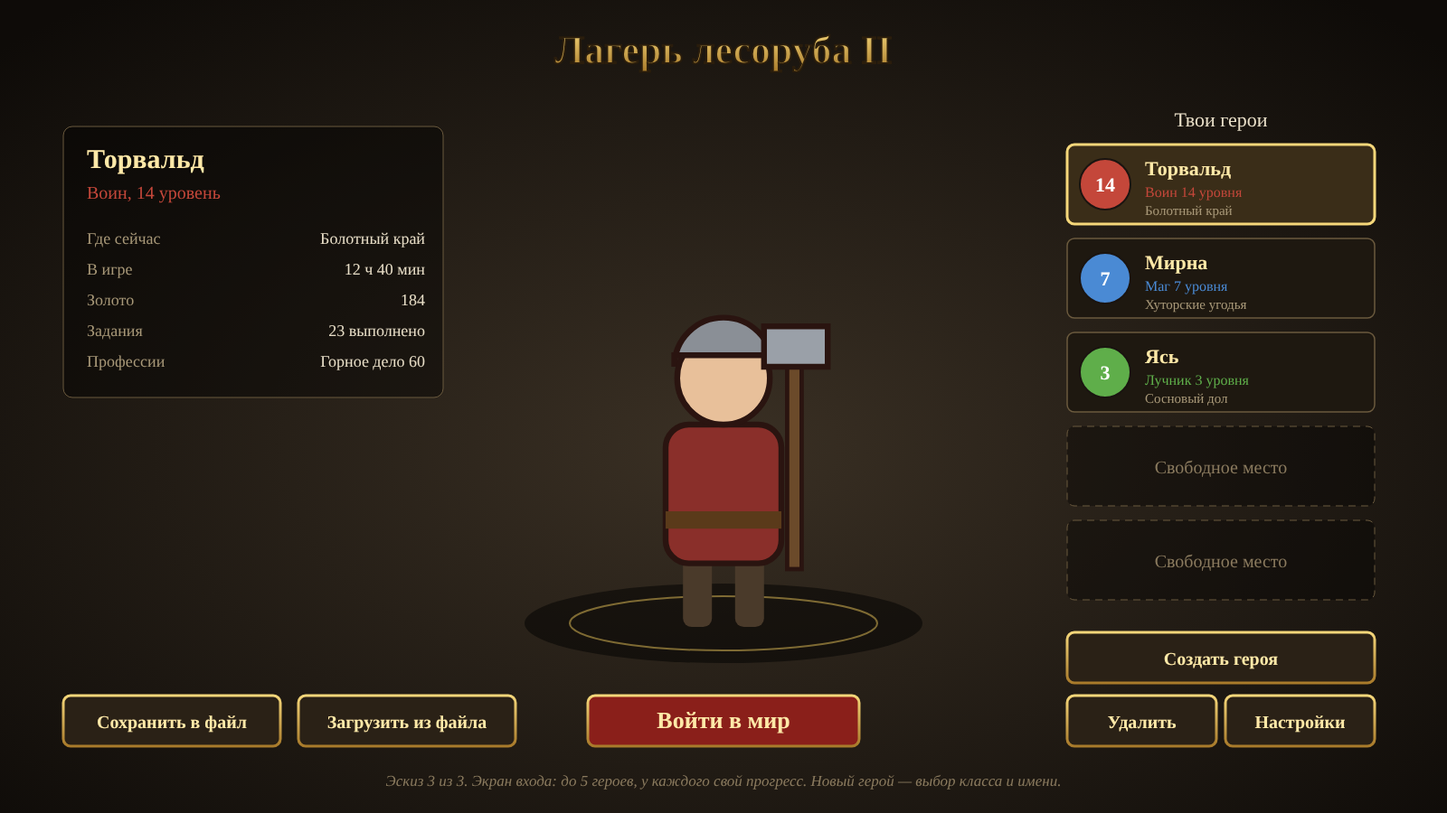
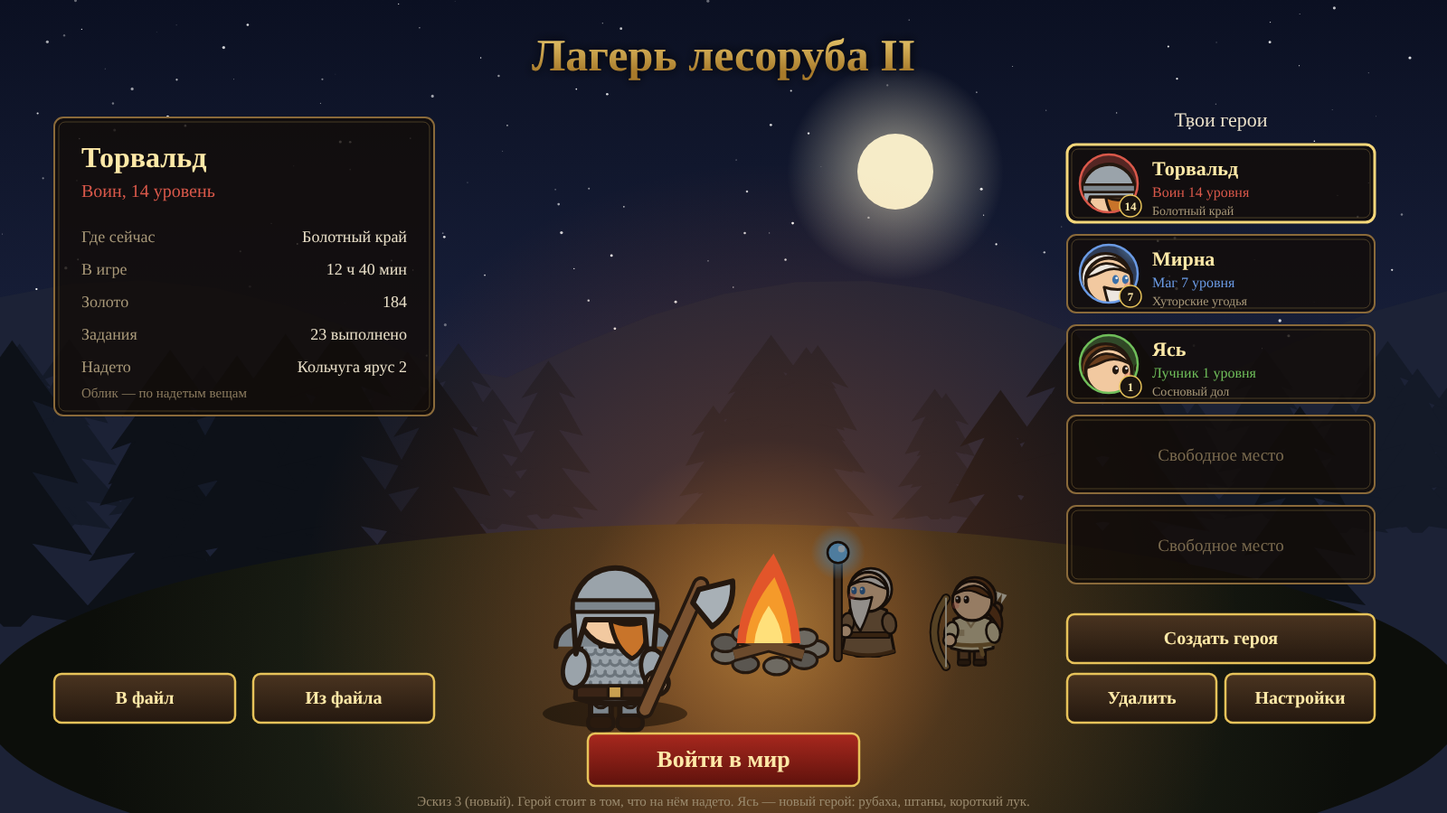
Концепция: травничество и алхимия, скрытые жилы, облик по вещам; эскизы экрана героев
Claude-Session: https://claude.ai/code/session_018u2gDytkQHQDk7Sw3j2mL6

diff --git a/tools/proto/v53/hero.html b/tools/proto/v53/hero.html
@@ -1,0 +1,212 @@
+<!doctype html><html><head><meta charset="utf-8"><title>Облик героя v53</title>
+<style>body{margin:0;background:#111;font-family:Georgia,'Times New Roman',serif}canvas{display:block;margin-bottom:20px}</style></head><body>
+<canvas id="sel" width="1600" height="900"></canvas>
+<canvas id="tiers" width="1600" height="980"></canvas>
+<script>
+// ===== Облик героя по слотам и ярусам (вариант Б). Будет src/art/hero.js =====
+const HO='#24180f',SKIN='#f2c9a0';
+const RAR={common:null,good:'#5fd35f',rare:'#4a9eff',epic:'#b46aff'};
+// линейки брони по классу: 0 простая одежда, 1..4 растущие ярусы
+const LINE={
+ warrior:{name:['Рубаха','Кожа','Кольчуга','Латы','Латы Стража'],
+   chest:['#d8c8a4','#8a5a32','#9aa3aa','#c4ccd2','#4a4f6e'],legs:['#6b4a2c','#5a3a1c','#7c858c','#b8c0c6','#3e4260']},
+ archer:{name:['Рубаха','Кожа','Шкуры','Чешуя','Доспех Следопыта'],
+   chest:['#d8c8a4','#8a5a32','#6a4a2a','#3e7a4a','#1f5a4a'],legs:['#6b4a2c','#5a3a1c','#4a3420','#2f5a36','#1e403a']},
+ mage:{name:['Рубаха','Роба','Расшитая роба','Звёздная мантия','Мантия Архимага'],
+   chest:['#d8c8a4','#8a6a4a','#3a5a9a','#4a2f78','#241a50'],legs:['#6b4a2c','#7a5a3a','#2e4a80','#3a2466','#1a1240']},
+};
+const WNAME={warrior:['Топорик','Боевой топор','Секира','Рунная секира'],mage:['Палка','Посох с кристаллом','Посох ученика','Посох бури'],archer:['Короткий лук','Охотничий лук','Длинный лук','Лук ветра']};
+function doll(c,x,y,s,dir,L,t=0){
+  const cl=L.cls,ln=LINE[cl],tc=L.chest|0,tl=L.legs|0,th=L.head|0,rc=RAR[L.rar||'common'];
+  const hp=(fn,fill,lw=1.1)=>{c.beginPath();fn();c.fillStyle=fill;c.fill();c.strokeStyle=HO;c.lineWidth=lw;c.stroke()};
+  c.save();c.translate(x,y);c.scale(s*dir,s);c.lineJoin='round';c.lineCap='round';
+  // сияние редкой вещи под ногами
+  if(rc&&(tc>=4||L.glow)){const g=c.createRadialGradient(0,9,1,0,9,20);g.addColorStop(0,rc+'99');g.addColorStop(1,rc+'00');c.fillStyle=g;c.beginPath();c.ellipse(0,9,20,8,0,0,7);c.fill();
+    for(let i=0;i<5;i++){const q=((t*0.6+i/5)%1);c.fillStyle=rc;c.globalAlpha=1-q;c.beginPath();c.arc(-10+i*5,10-q*26,0.9,0,7);c.fill()}c.globalAlpha=1}
+  // плащ сзади (ярус 3+)
+  if(tc>=3){const cap=cl==='warrior'?(tc>=4?'#3a2a6a':'#8a2a1a'):cl==='archer'?(tc>=4?'#173f36':'#2f6a3a'):(tc>=4?'#140e36':'#2a1a58');
+    hp(()=>{c.moveTo(-7,-6);c.lineTo(6,-6);c.lineTo(5,12);c.quadraticCurveTo(-5,14.5,-13,11.5);c.closePath()},cap);
+    if(rc){c.strokeStyle=rc;c.lineWidth=0.9;c.beginPath();c.moveTo(5,11.5);c.quadraticCurveTo(-5,14,-12.5,11);c.stroke()}}
+  // колчан у лучника
+  if(cl==='archer'){c.save();c.translate(-6,-3);c.rotate(-0.35);hp(()=>c.roundRect(-3,-9,6,15,2),tc>=3?'#3a2a14':'#6b4a2c');c.fillStyle='#e8e0cc';for(let i=0;i<3;i++){c.beginPath();c.moveTo(-2+i*2,-9);c.lineTo(-3+i*2,-13);c.lineTo(-1+i*2,-13);c.fill()}c.restore()}
+  // оружие за спиной не носим — оно в руке (рисуется в конце)
+  // ноги
+  const robe=cl==='mage'&&tc>=1;
+  const lc=ln.legs[tl],boot=tl===0?'#3a2616':tl>=3&&cl==='warrior'?'#9aa3aa':'#2a1a0e';
+  for(const lx of [-5,1]){hp(()=>c.roundRect(lx,3.5,4.2,9,1.6),lc);
+    if(tl>=1)hp(()=>c.roundRect(lx-0.5,9.6,5.2,3,1.2),boot,0.8);else hp(()=>c.roundRect(lx-0.3,10.4,4.8,2.2,1),boot,0.7);
+    if(cl==='warrior'&&tl>=2)hp(()=>c.arc(lx+2.1,6.5,1.6,0,7),tl>=3?'#f4c766':'#5a5f66',0.6);
+    if(tl>=4&&rc){c.fillStyle=rc;c.fillRect(lx+0.6,4.6,3,1)}}
+  // тело
+  const tor=()=>{c.moveTo(-7,-5);c.quadraticCurveTo(0,-8,7,-5);c.lineTo(8,6);c.quadraticCurveTo(0,8.5,-8,6);c.closePath()};
+  const robeP=()=>{c.moveTo(-7,-5);c.quadraticCurveTo(0,-8,7,-5);c.lineTo(10,11);c.quadraticCurveTo(0,14,-10,11);c.closePath()};
+  const cc=ln.chest[tc];
+  if(tc===0){ // простая рубаха и верёвочный пояс
+    hp(tor,cc);c.strokeStyle='#a8916a';c.lineWidth=0.8;c.beginPath();c.moveTo(-2.5,-6.4);c.lineTo(0.5,-2);c.lineTo(3.5,-6.4);c.stroke();
+    c.strokeStyle='#8a6a3a';c.lineWidth=1.6;c.beginPath();c.moveTo(-8,4.4);c.quadraticCurveTo(0,5.6,8,4.4);c.stroke();c.beginPath();c.moveTo(-3,5);c.lineTo(-4,8.5);c.stroke();
+    c.fillStyle='rgba(120,90,50,.35)';c.fillRect(3,-1,2.4,2.4); // заплатка
+  }else if(robe){
+    hp(robeP,cc);
+    c.save();c.beginPath();robeP();c.clip();
+    if(tc>=2){c.fillStyle=tc>=3?'#2a1a50':'#24406e';c.fillRect(-2.5,-8,6,22);}
+    if(tc>=3){c.fillStyle='#cfd8e6';for(const [sx,sy,r] of [[-6,0,1.3],[6,3,1.1],[-5,7,1],[5,-2,0.9],[-1,10,1]]){c.beginPath();for(let i=0;i<8;i++){const rr=i%2?r*0.4:r,a=i*Math.PI/4;c.lineTo(sx+Math.cos(a)*rr,sy+Math.sin(a)*rr)}c.fill()}}
+    c.restore();
+    const trim=tc>=4&&rc?rc:tc>=2?'#f4c766':'#5a3a1c';c.strokeStyle=trim;c.lineWidth=1.2;c.beginPath();c.moveTo(-9.6,10.6);c.quadraticCurveTo(0,13.6,9.6,10.6);c.stroke();
+    hp(()=>c.rect(-8,3.4,16,2.2),tc>=2?'#f4c766':'#5a3a1c',.6);
+    if(tc>=4){for(let i=0;i<4;i++){const gx=-6+i*4,g=c.createRadialGradient(gx,9.4,0.2,gx,9.4,2.6);g.addColorStop(0,'rgba(200,170,255,.95)');g.addColorStop(1,'rgba(200,170,255,0)');c.fillStyle=g;c.beginPath();c.arc(gx,9.4,2.6,0,7);c.fill()}}
+  }else if(tc===1){ // кожа
+    hp(tor,cc);c.strokeStyle='#5a3418';c.lineWidth=0.7;c.setLineDash([1.2,1.2]);c.beginPath();c.moveTo(-5,-5);c.lineTo(-5.5,5);c.moveTo(5,-5);c.lineTo(5.5,5);c.stroke();c.setLineDash([]);
+    hp(()=>c.rect(-8,3.6,16,2.6),'#3a2416',.8);hp(()=>c.rect(-1.4,3.6,2.8,2.6),'#c9a050',.6);
+  }else if(cl==='warrior'&&tc===2||cl==='archer'&&tc===2){ // кольчуга / шкуры
+    hp(tor,cc,1.2);c.save();c.beginPath();tor();c.clip();
+    if(cl==='warrior'){c.strokeStyle='#6c757c';c.lineWidth=0.6;for(let r=0;r<6;r++)for(let k=0;k<9;k++){c.beginPath();c.arc(-8+k*2+(r%2),-6+r*2.2,1,0,Math.PI);c.stroke()}}
+    else{c.fillStyle='#4a3218';for(let k=0;k<12;k++){c.beginPath();c.arc(-7+(k*5)%15,-4+(k*3)%10,1.2,0,7);c.fill()}}
+    c.restore();hp(()=>{c.moveTo(-7.5,-6);c.quadraticCurveTo(0,-9.5,7.5,-6);c.quadraticCurveTo(0,-3.5,-7.5,-6)},cl==='archer'?'#e8dcc0':'#5a3a1c',0.8);
+    hp(()=>c.rect(-8,3.6,16,2.6),'#3a2416',.8);hp(()=>c.rect(-1.4,3.6,2.8,2.6),'#c9a050',.6);
+  }else{ // латы / чешуя, ярус 3–4
+    hp(tor,cc,1.2);
+    if(cl==='archer'){c.save();c.beginPath();tor();c.clip();for(let r=0;r<4;r++)for(let k=0;k<5;k++){const lx=-8+k*4+(r%2)*2,ly=-5+r*3.4;hp(()=>{c.moveTo(lx,ly);c.quadraticCurveTo(lx+2,ly+3,lx+4,ly);c.quadraticCurveTo(lx+2,ly+1.4,lx,ly)},tc>=4?(r%2?'#2a8a72':'#3aa88a'):(r%2?'#5fc98a':'#4aa870'),0.5)}c.restore();
+      c.strokeStyle='#3a2416';c.lineWidth=1.7;c.beginPath();c.moveTo(-6,-5);c.lineTo(7,4);c.stroke()}
+    else{c.fillStyle='rgba(255,255,255,.3)';c.fillRect(-5.5,-4,1.6,8);hp(()=>c.arc(0.5,-1,2.4,0,7),tc>=4&&rc?rc:'#f4c766',0.7);
+      c.strokeStyle=tc>=4&&rc?rc:'#f4c766';c.lineWidth=0.9;c.beginPath();c.moveTo(-7,-5);c.quadraticCurveTo(0,-8,7,-5);c.stroke()}
+    hp(()=>c.rect(-8,3.6,16,2.6),'#3a2416',.8);hp(()=>c.rect(-1.4,3.6,2.8,2.6),tc>=4&&rc?rc:'#f4c766',.6);
+  }
+  // руки и плечи
+  const sl=tc===0?'#d8c8a4':cc;
+  hp(()=>c.ellipse(-8,0,2.6,4,0.2,0,7),sl,.9);
+  if(cl==='warrior'&&tc>=2){const pc=tc>=3?cc:'#7c858c';for(const sx of [-7.5,7.5]){hp(()=>c.arc(sx,-4.5,4.6,Math.PI,0),pc,1);if(tc>=3){c.strokeStyle=tc>=4&&rc?rc:'#f4c766';c.lineWidth=0.8;c.beginPath();c.arc(sx,-4.5,4.6,Math.PI,0);c.stroke()}
+    if(tc>=4)for(const d of [-2,2])hp(()=>{c.moveTo(sx+d-1.2,-8.4);c.lineTo(sx+d*1.4,-13);c.lineTo(sx+d+1.2,-8.4);c.closePath()},'#cfd8de',0.6)}}
+  if(cl==='mage'&&tc>=3)for(const sx of [-7,7])hp(()=>{c.arc(sx,-4.5,3.4,Math.PI,0);c.closePath()},'#cfd8e6',0.8);
+  if(cl==='archer'&&tc>=3)hp(()=>{c.moveTo(4,-6);c.quadraticCurveTo(9,-9,12,-4);c.quadraticCurveTo(8,-4,4,-2);c.closePath()},tc>=4?'#3aa88a':'#5fc98a',0.8);
+  hp(()=>c.ellipse(8,0,2.6,4,-0.2,0,7),sl,.9);
+  // голова
+  const hood=(cl==='archer'&&th>=1)||(cl==='mage'&&th===1);
+  const hoodC=cl==='archer'?['','#6b4a2c','#2f4f2a','#2f6a3a','#1f5a4a'][th]:'#7a5a3a';
+  if(hood){hp(()=>c.arc(0,-12,8.6,0,7),hoodC);hp(()=>{c.moveTo(-5,-19);c.quadraticCurveTo(-9,-24,-12,-23);c.quadraticCurveTo(-9,-18,-8,-13);c.closePath()},hoodC)}
+  // волосы сзади
+  if(!hood&&th===0){const hc=cl==='warrior'?'#c8742a':cl==='mage'?'#ece6df':'#6a3e1e';hp(()=>c.arc(-1,-13,8,0,7),hc,1);if(cl==='archer')hp(()=>{c.moveTo(-6,-12);c.quadraticCurveTo(-13,-8,-11,0);c.quadraticCurveTo(-8,-6,-4,-9);c.closePath()},hc,0.9)}
+  hp(()=>hood?c.ellipse(2,-11,5.3,5.6,0,0,7):c.arc(0,-12,7.5,0,7),SKIN);
+  if(hood){c.fillStyle='rgba(0,0,0,.28)';c.beginPath();c.ellipse(2,-15,5.3,2.2,0,0,7);c.fill()}
+  // чёлка
+  if(!hood&&th===0){const hc=cl==='warrior'?'#c8742a':cl==='mage'?'#ece6df':'#6a3e1e';hp(()=>{c.moveTo(-7.5,-13);c.quadraticCurveTo(-2,-22,7.5,-14);c.quadraticCurveTo(3,-17,-1,-15.5);c.quadraticCurveTo(-4,-14,-7.5,-13)},hc,0.8)}
+  if(cl==='warrior')hp(()=>{c.moveTo(-1,-10);c.quadraticCurveTo(3,-8,7,-10);c.quadraticCurveTo(7,-4,3.5,-2);c.quadraticCurveTo(0,-4,-1,-10)},'#c8742a',.9);
+  if(cl==='mage')hp(()=>{c.moveTo(-1.5,-10);c.quadraticCurveTo(3,-8.5,7.2,-10);c.quadraticCurveTo(7,-2,3,3);c.quadraticCurveTo(0,-3,-1.5,-10)},'#ece6df',.9);
+  const eyeC=cl==='mage'?'#3a6fa8':HO;for(const ex of [2.2,5.4]){c.fillStyle=eyeC;c.beginPath();c.ellipse(ex,-12.5,1.05,1.5,0,0,7);c.fill();c.fillStyle='#fff';c.beginPath();c.arc(ex+.35,-13,.4,0,7);c.fill()}
+  if(!hood){c.fillStyle='rgba(230,110,90,.35)';c.beginPath();c.arc(6.3,-10.3,1.3,0,7);c.fill()}
+  // головные уборы
+  if(cl==='warrior'&&th>=1){
+    if(th===1){hp(()=>{c.arc(0,-13,8,Math.PI,0);c.lineTo(8,-12);c.lineTo(-8,-12);c.closePath()},'#8a5a32');c.strokeStyle='#5a3418';c.lineWidth=0.6;c.beginPath();c.moveTo(0,-21);c.lineTo(0,-13);c.stroke()}
+    else if(th===2){hp(()=>{c.arc(0,-12,8.6,Math.PI*0.95,Math.PI*2.05);c.lineTo(8,-4);c.lineTo(6.5,-4);c.lineTo(6,-10);c.lineTo(-6,-10);c.lineTo(-8,-3);c.closePath()},'#9aa3aa');hp(()=>c.rect(-8.6,-14,17.2,2.4),'#7c858c',.8)}
+    else{const hc=th>=4?'#4a4f6e':'#c4ccd2',tr=th>=4&&rc?rc:'#f4c766';
+      for(const sx of [-1,1]){hp(()=>{c.moveTo(sx*6,-15);c.quadraticCurveTo(sx*15,-15,sx*15,-28);c.quadraticCurveTo(sx*11,-21,sx*4,-19);c.closePath()},'#ece2c8',1)}
+      hp(()=>{c.arc(0,-13,8.4,Math.PI,0);c.lineTo(8.4,-9);c.lineTo(6,-9);c.lineTo(6,-12);c.lineTo(-8.4,-12);c.closePath()},hc,1.1);hp(()=>c.rect(-8.8,-14.8,17.6,3),tr,.8);hp(()=>c.rect(3,-14.5,2.2,6.5),tr,.7);
+      c.fillStyle='rgba(255,255,255,.35)';c.beginPath();c.arc(-3,-18,2,0,7);c.fill()}}
+  if(cl==='mage'&&th>=2){const hc=['','','#3a5a9a','#4a2f78','#241a50'][th];hp(()=>c.ellipse(0,-16.5,11,2.8,0,0,7),'#1e1438');hp(()=>{c.moveTo(-6.5,-17);c.quadraticCurveTo(-4,-26,-3,-30);c.quadraticCurveTo(-6,-33,-10,-31);c.quadraticCurveTo(-4,-35,0,-31);c.quadraticCurveTo(3,-24,6.5,-17);c.closePath()},hc);hp(()=>c.rect(-6.3,-19.3,12.6,2.4),th>=4&&rc?rc:'#f4c766',.8);
+    if(th>=3){c.fillStyle='#f4c766';c.beginPath();c.arc(-1,-25,1.2,0,7);c.fill()}
+    if(th>=4){const fy=-38+Math.sin(t*2)*1.5,g=c.createRadialGradient(0,fy,0.5,0,fy,7);g.addColorStop(0,'rgba(190,150,255,.9)');g.addColorStop(1,'rgba(150,110,255,0)');c.fillStyle=g;c.beginPath();c.arc(0,fy,7,0,7);c.fill();hp(()=>{c.moveTo(0,fy-4.5);c.lineTo(2.6,fy);c.lineTo(0,fy+4.5);c.lineTo(-2.6,fy);c.closePath()},'#b48aff',0.8)}}
+  if(cl==='archer'&&th>=3){hp(()=>{c.moveTo(-6,-19);c.quadraticCurveTo(-12,-28,-9,-33);c.quadraticCurveTo(-8,-26,-4,-20);c.closePath()},th>=4&&rc?rc:'#d8c050',0.7)}
+  // кисть
+  hp(()=>c.arc(8.6,3,2.4,0,7),SKIN,.9);
+  // оружие в руке
+  const wt=L.wt|0;
+  if(cl==='warrior'){c.save();c.translate(8.6,3);c.rotate(0.42);
+    c.strokeStyle=HO;c.lineWidth=3.6;c.beginPath();c.moveTo(0,6);c.lineTo(0,-20-wt*2);c.stroke();c.strokeStyle=wt>=3?'#3a2416':'#7a5230';c.lineWidth=2.2;c.beginPath();c.moveTo(0,6);c.lineTo(0,-20-wt*2);c.stroke();
+    const top=-20-wt*2,bc=wt>=3?'#7ec8ff':wt>=2?'#d8dde2':'#a8b0b6',w=4+wt*1.6,hh=5+wt*1.8;
+    hp(()=>{c.moveTo(0,top+1);c.lineTo(w,top-hh/2);c.quadraticCurveTo(w+3,top+2,w,top+hh);c.lineTo(0,top+4);c.closePath()},bc);
+    if(wt>=2)hp(()=>{c.moveTo(0,top+1);c.lineTo(-w*0.8,top-hh/2.5);c.quadraticCurveTo(-w-2,top+2,-w*0.8,top+hh*0.8);c.lineTo(0,top+4);c.closePath()},bc);
+    if(wt>=3){c.strokeStyle='#ffffff';c.lineWidth=0.8;c.beginPath();c.moveTo(w-1,top-2);c.lineTo(w-3,top+2);c.lineTo(w-1,top+5);c.stroke()}
+    c.restore()}
+  if(cl==='mage'){const sx=11.5;c.strokeStyle=HO;c.lineWidth=3.6;c.beginPath();c.moveTo(sx,13);c.quadraticCurveTo(sx+(wt?0:1.5),-6,sx,-24);c.stroke();c.strokeStyle=wt===0?'#8a6a3a':wt>=3?'#3a2a5a':'#6b4a2c';c.lineWidth=2.2;c.beginPath();c.moveTo(sx,13);c.quadraticCurveTo(sx+(wt?0:1.5),-6,sx,-24);c.stroke();
+    if(wt===0){hp(()=>c.ellipse(sx-1,-24,2.2,1.6,0.4,0,7),'#7a5a32',0.8);hp(()=>c.ellipse(sx+2.5,-19,2,1,0.8,0,7),'#5a8a3a',0.6)}
+    else{const oc=['','#7ec8ff','#9affc8','#c8a0ff'][wt],R=3+wt;const g=c.createRadialGradient(sx,-27,1,sx,-27,R*2.6);g.addColorStop(0,oc+'cc');g.addColorStop(1,oc+'00');c.fillStyle=g;c.beginPath();c.arc(sx,-27,R*2.6,0,7);c.fill();
+      if(wt>=2){c.strokeStyle='#cfd8de';c.lineWidth=1.2;c.beginPath();c.arc(sx,-27,R+2,0,7);c.stroke()}
+      hp(()=>c.arc(sx,-27,R,0,7),oc,0.9);c.fillStyle='rgba(255,255,255,.75)';c.beginPath();c.arc(sx-1.3,-28.4,1.3,0,7);c.fill()}}
+  if(cl==='archer'){const bx=12,bh=13+wt*2.5,bc=['#8a6a3a','#6b4a2c','#4a3420','#d8c050'][wt];
+    c.strokeStyle=HO;c.lineWidth=3.6;c.beginPath();c.moveTo(bx-2,-bh);c.quadraticCurveTo(bx+7,0,bx-2,bh);c.stroke();c.strokeStyle=bc;c.lineWidth=2.2;c.beginPath();c.moveTo(bx-2,-bh);c.quadraticCurveTo(bx+7,0,bx-2,bh);c.stroke();
+    c.strokeStyle='#e8e0cc';c.lineWidth=0.6;c.beginPath();c.moveTo(bx-2,-bh);c.lineTo(bx-2,bh);c.stroke();
+    if(wt>=3){c.strokeStyle='#9affc8';c.lineWidth=0.8;for(let i=0;i<3;i++){c.beginPath();c.arc(bx+3,-6+i*6,2,0,3);c.stroke()}}}
+  c.restore()}
+
+// ===== ЭКРАН ВЫБОРА ГЕРОЯ =====
+const cv=document.getElementById('sel'),c=cv.getContext('2d');
+function rnd(seed){let s=seed;return()=>((s=(s*16807)%2147483647)/2147483647)}
+function scene(){
+  // небо
+  const sky=c.createLinearGradient(0,0,0,900);sky.addColorStop(0,'#0b1022');sky.addColorStop(.55,'#1b2340');sky.addColorStop(1,'#120d0a');c.fillStyle=sky;c.fillRect(0,0,1600,900);
+  const r=rnd(7);c.fillStyle='#fff';for(let i=0;i<160;i++){c.globalAlpha=.3+r()*.7;c.beginPath();c.arc(r()*1600,r()*420,r()*1.4+.3,0,7);c.fill()}c.globalAlpha=1;
+  // луна
+  const mg=c.createRadialGradient(990,190,10,990,190,120);mg.addColorStop(0,'rgba(255,245,210,.55)');mg.addColorStop(1,'rgba(255,245,210,0)');c.fillStyle=mg;c.beginPath();c.arc(990,190,120,0,7);c.fill();c.fillStyle='#f6ecc8';c.beginPath();c.arc(990,190,42,0,7);c.fill();
+  // дальние горы и лес
+  c.fillStyle='#1c2236';c.beginPath();c.moveTo(0,520);for(let x=0;x<=1600;x+=80)c.lineTo(x,430-Math.abs(Math.sin(x*0.004+1))*120);c.lineTo(1600,900);c.lineTo(0,900);c.fill();
+  const pine=(x,y,h,col)=>{c.fillStyle=col;c.beginPath();c.moveTo(x,y-h);for(let k=0;k<4;k++){const yy=y-h+h*(k+1)/4;c.lineTo(x+h*0.18+k*h*0.05,yy);c.lineTo(x+h*0.07,yy-h*0.04)}c.lineTo(x+h*0.03,y);c.lineTo(x-h*0.03,y);for(let k=3;k>=0;k--){const yy=y-h+h*(k+1)/4;c.lineTo(x-h*0.07,yy-h*0.04);c.lineTo(x-h*0.18-k*h*0.05,yy)}c.closePath();c.fill()};
+  const r2=rnd(11);for(let i=0;i<46;i++){const x=r2()*1600;pine(x,560+r2()*30,120+r2()*80,'#141a28')}
+  for(let i=0;i<22;i++){const x=r2()*1600;if(x>520&&x<1080)continue;pine(x,660+r2()*40,200+r2()*120,'#0d1118')}
+  // поляна
+  const gr=c.createRadialGradient(800,760,40,800,760,700);gr.addColorStop(0,'#3a3220');gr.addColorStop(.5,'#1e2216');gr.addColorStop(1,'#0c0e0a');c.fillStyle=gr;c.beginPath();c.ellipse(800,780,820,200,0,0,7);c.fill();
+  // свет костра
+  const fg=c.createRadialGradient(850,700,10,850,700,520);fg.addColorStop(0,'rgba(255,170,70,.55)');fg.addColorStop(.4,'rgba(255,120,40,.18)');fg.addColorStop(1,'rgba(255,100,30,0)');c.fillStyle=fg;c.beginPath();c.arc(850,700,520,0,7);c.fill();
+}
+function fire(x,y,s,t){c.save();c.translate(x,y);c.scale(s,s);
+  // камни
+  for(let i=0;i<9;i++){const a=i/9*Math.PI*2;c.fillStyle=i%2?'#5a5650':'#6e6a62';c.strokeStyle=HO;c.lineWidth=1;c.beginPath();c.ellipse(Math.cos(a)*16,Math.sin(a)*6+2,4.5,3,0,0,7);c.fill();c.stroke()}
+  // поленья
+  c.strokeStyle=HO;c.lineWidth=5;c.beginPath();c.moveTo(-12,4);c.lineTo(10,-2);c.moveTo(-10,-2);c.lineTo(12,4);c.stroke();c.strokeStyle='#6b4a2c';c.lineWidth=3.2;c.stroke();
+  // пламя
+  const fl=(w,h,col,o)=>{c.fillStyle=col;c.beginPath();c.moveTo(-w,0);c.quadraticCurveTo(-w*0.9,-h*0.5,o,-h);c.quadraticCurveTo(w*0.9,-h*0.5,w,0);c.closePath();c.fill()};
+  fl(11,28+Math.sin(t*3)*3,'#e2552a',Math.sin(t*2)*2);fl(8,21+Math.sin(t*4)*2,'#f59a2a',Math.sin(t*3)*2);fl(5,13,'#ffe07a',0);
+  c.restore()}
+function panel(x,y,w,h){c.fillStyle='rgba(18,12,8,.82)';c.strokeStyle='#8a6a3a';c.lineWidth=2;c.beginPath();c.roundRect(x,y,w,h,10);c.fill();c.stroke();c.strokeStyle='rgba(244,199,102,.25)';c.lineWidth=1;c.beginPath();c.roundRect(x+5,y+5,w-10,h-10,7);c.stroke()}
+function btn(x,y,w,h,txt,main){const g=c.createLinearGradient(0,y,0,y+h);g.addColorStop(0,main?'#a8281e':'#4a3420');g.addColorStop(1,main?'#5e120c':'#24180f');c.fillStyle=g;c.beginPath();c.roundRect(x,y,w,h,8);c.fill();c.strokeStyle='#e7c35a';c.lineWidth=2.5;c.stroke();
+  c.fillStyle='#ffe9a8';c.font=`bold ${main?26:20}px Georgia`;c.textAlign='center';c.textBaseline='middle';c.fillText(txt,x+w/2,y+h/2+1)}
+function text(t,x,y,size,col,align='left',bold){c.fillStyle=col;c.font=`${bold?'bold ':''}${size}px Georgia`;c.textAlign=align;c.textBaseline='alphabetic';c.fillText(t,x,y)}
+
+const HEROES=[
+ {name:'Торвальд',cls:'warrior',lvl:14,zone:'Болотный край',time:'12 ч 40 мин',gold:184,q:23,look:{cls:'warrior',chest:2,legs:2,head:2,wt:1,rar:'good'}},
+ {name:'Мирна',cls:'mage',lvl:7,zone:'Хуторские угодья',time:'3 ч 05 мин',gold:41,q:9,look:{cls:'mage',chest:1,legs:1,head:0,wt:1}},
+ {name:'Ясь',cls:'archer',lvl:1,zone:'Сосновый дол',time:'5 мин',gold:0,q:0,look:{cls:'archer',chest:0,legs:0,head:0,wt:0}},
+];
+const CC={warrior:'#d9584a',mage:'#6a9ae4',archer:'#6fbe5a'},CN={warrior:'Воин',mage:'Маг',archer:'Лучник'};
+function drawSel(t){
+  scene();
+  // другие герои у костра, в тени
+  c.filter='brightness(0.62)';doll(c,960,690,2.9,-1,HEROES[1].look,t);doll(c,1075,700,2.9,-1,HEROES[2].look,t);c.filter='none';
+  fire(850,712,3.2,t);
+  // выбранный герой впереди, слева от костра
+  c.fillStyle='rgba(0,0,0,.45)';c.beginPath();c.ellipse(680,790,80,16,0,0,7);c.fill();
+  doll(c,680,740,5.4,1,HEROES[0].look,t);
+  // заголовок
+  c.save();c.shadowColor='#000';c.shadowBlur=12;const tg=c.createLinearGradient(0,30,0,80);tg.addColorStop(0,'#f5d77a');tg.addColorStop(1,'#a87a2a');c.fillStyle=tg;c.font='bold 50px Georgia';c.textAlign='center';c.fillText('Лагерь лесоруба II',800,78);c.restore();
+  // сведения
+  const H=HEROES[0];panel(60,130,420,330);text(H.name,90,185,32,'#ffe9a8','left',1);text(`${CN[H.cls]}, ${H.lvl} уровень`,90,218,20,CC[H.cls]);
+  [['Где сейчас',H.zone],['В игре',H.time],['Золото',H.gold],['Задания',H.q+' выполнено'],['Надето','Кольчуга ярус 2']].forEach(([a,b],i)=>{text(a,90,268+i*36,18,'#a89878');text(String(b),450,268+i*36,18,'#e9dfc8','right')});
+  text('Облик — по надетым вещам',90,440,15,'#8a7a5e','left');
+  // слоты
+  text('Твои герои',1350,140,22,'#e9dfc8','center');
+  for(let i=0;i<5;i++){const y=160+i*100,h=HEROES[i];panel(1180,y,340,86);if(!h){text('Свободное место',1350,y+50,19,'#7a6a4e','center');continue}
+    if(i===0){c.strokeStyle='#f5d77a';c.lineWidth=3;c.beginPath();c.roundRect(1180,y,340,86,10);c.stroke()}
+    // портрет: голова в круге
+    c.save();c.beginPath();c.arc(1226,y+43,32,0,7);c.fillStyle=CC[h.cls]+'55';c.fill();c.clip();doll(c,1226,y+92,3.4,1,h.look,t);c.restore();
+    c.strokeStyle=CC[h.cls];c.lineWidth=2.5;c.beginPath();c.arc(1226,y+43,32,0,7);c.stroke();
+    c.fillStyle='#1a1410';c.beginPath();c.arc(1250,y+68,12,0,7);c.fill();c.strokeStyle='#e7c35a';c.lineWidth=1.5;c.stroke();text(String(h.lvl),1250,y+73,13,'#ffe9a8','center',1);
+    text(h.name,1274,y+34,22,'#ffe9a8','left',1);text(`${CN[h.cls]} ${h.lvl} уровня`,1274,y+58,16,CC[h.cls]);text(h.zone,1274,y+78,14,'#a89878')}
+  btn(1180,680,340,54,'Создать героя');btn(1180,746,165,54,'Удалить');btn(1355,746,165,54,'Настройки');
+  btn(650,812,300,58,'Войти в мир',1);
+  btn(60,746,200,54,'В файл');btn(280,746,200,54,'Из файла');
+  text('Эскиз 3 (новый). Герой стоит в том, что на нём надето. Ясь — новый герой: рубаха, штаны, короткий лук.',800,892,15,'#9a8a6e','center');
+}
+drawSel(0.5);
+
+// ===== КАК МЕНЯЕТСЯ ОБЛИК =====
+const tc2=document.getElementById('tiers').getContext('2d');
+(function(){const c=tc2;const g=c.createLinearGradient(0,0,0,980);g.addColorStop(0,'#2a2418');g.addColorStop(1,'#16120c');c.fillStyle=g;c.fillRect(0,0,1600,980);
+  c.fillStyle='#ffe9a8';c.font='bold 32px Georgia';c.textAlign='center';c.fillText('Облик героя по ярусам вещей',800,52);
+  c.fillStyle='#a89878';c.font='18px Georgia';c.fillText('Слева — новый герой. Каждая надетая вещь меняет свою часть тела. Цвет каймы и сияние — редкость.',800,84);
+  const cols=[230,500,770,1040,1310];const rows=[{cls:'warrior',y:330},{cls:'mage',y:620},{cls:'archer',y:900}];
+  const rar=[null,'common','good','rare','epic'];const rn=['Новый герой','Обычная','Необычная','Редкая','Эпическая'],rc=['#c8b898','#e9dfc8','#5fd35f','#4a9eff','#b46aff'];
+  cols.forEach((x,i)=>{c.fillStyle=rc[i];c.font='bold 20px Georgia';c.fillText(rn[i],x,124)});
+  rows.forEach(rw=>{cols.forEach((x,i)=>{const L={cls:rw.cls,chest:i,legs:i,head:i,wt:Math.min(3,Math.max(0,i-1)),rar:rar[i]||'common'};
+    const save=window.c;doll(c,x,rw.y-30,4.4,1,L,0.3);
+    c.fillStyle='#e9dfc8';c.font='16px Georgia';c.fillText(LINE[rw.cls].name[i],x,rw.y+42);c.fillStyle='#a89878';c.font='italic 14px Georgia';c.fillText(WNAME[rw.cls][Math.min(3,Math.max(0,i-1))],x,rw.y+62)});
+    c.fillStyle=CC[rw.cls];c.font='bold 24px Georgia';c.textAlign='left';c.fillText(CN[rw.cls],40,rw.y-120);c.textAlign='center'});
+})();
+</script></body></html>

diff --git a/CONCEPT.md b/CONCEPT.md
@@ -42,6 +42,8 @@
 - **Максимальный уровень — 50.**
 - Кривая крутая: первые 10 уровней — легко, 10–20 — заметно тяжелее, дальше по нарастающей. Точные числа подбираются автоигроком.
 - **Смерть**: возрождение у ближайшего кладбища или в столице, без потери вещей. Наказание — пробежка назад и короткая слабость (предложение).
+- **Облик = то, что надето** (вариант Б). У шлема, брони, штанов и оружия по 5 ярусов вида; вещь берёт вид своего яруса, кайма и сияние — по редкости. Особые вещи (с боссов, комплекты) — свой рисунок. У каждого класса своя линейка брони: Воин — рубаха → кожа → кольчуга → латы; Маг — рубаха → роба → расшитая роба → мантии; Лучник — рубаха → кожа → шкуры → чешуя.
+- **Новый герой**: рубаха, штаны и простое оружие класса — Воин топорик, Маг палка-посох, Лучник короткий лук.
 
 ## 4. Мобы
 
@@ -64,16 +66,19 @@
 
 ## 7. Профессии
 
-Изучаются у учителей в столице. Набор (уточняется при работе над профессиями):
+Изучаются у учителей в столице. **Детали — отдельным разговором**, когда дойдём до профессий (сначала вопросы, потом решения). Пока набор:
 
 | Профессия | Что делает |
 |---|---|
-| Горное дело | Искать и добывать руду в жилах по карте |
-| Лесозаготовка | Рубить ценные породы деревьев (игра всё-таки «Лагерь лесоруба») |
+| Горное дело | Искать и добывать руду в жилах |
+| Травничество | Собирать травы |
+| Алхимия | Варить зелья из трав |
 | Зачарование | Накладывать чары на оружие и броню |
-| Инженерное дело | Механизмы, бомбы, полезные устройства |
+| Инженерное дело | Механизмы, бомбы, полезные устройства (под вопросом) |
 
-Открытый вопрос: можно ли изучить все или только 2 (как в WoW).
+Лесозаготовки нет (решено 08.10.2026).
+
+**Жилы руды (решено):** у каждого металла своя область на карте, но в игре она **никак не видна** — найти жилу должно быть сюрпризом. В области одновременно 1–2 жилы в случайных местах; выкопанная появляется через время в другом месте той же области. Жил мало, добыча — сложная. Подсказки на мини-карте пока оставляем как идею, решаем по факту.
 
 ## 8. Задания
 
@@ -81,7 +86,7 @@
 
 ## 9. Сохранения и вход
 
-- **Экран входа**: выбор героя из нескольких слотов или создание нового.
+- **Экран входа**: ночная поляна у костра, выбранный герой впереди в том, что на нём надето, остальные у огня; до 5 героев.
 - Сохранение в браузере + **«Сохранить в файл / Загрузить из файла»**.
 - Структура сохранения готова к переезду на сервер (логин, онлайн-сохранения) — когда игру будут проверять друзья.
 - Ветка II начинается с чистого листа: старые сохранения v52 не переносятся.
@@ -125,7 +130,7 @@ snapshots/       — собранные версии для отката
 
 1. **v53 — скелет**: новая структура кода, экран выбора героя, перенесённый герой с классами, город-заглушка, стартовая зона с мобами, уровнями и возрождением, золото и добыча, новая кривая опыта.
 2. Задания.
-3. Горное дело и лесозаготовка.
+3. Горное дело, травничество и алхимия.
 4. Первое подземелье.
 5. Зачарование, инженерное дело.
 6. Остальные зоны континента, новые виды мобов.
